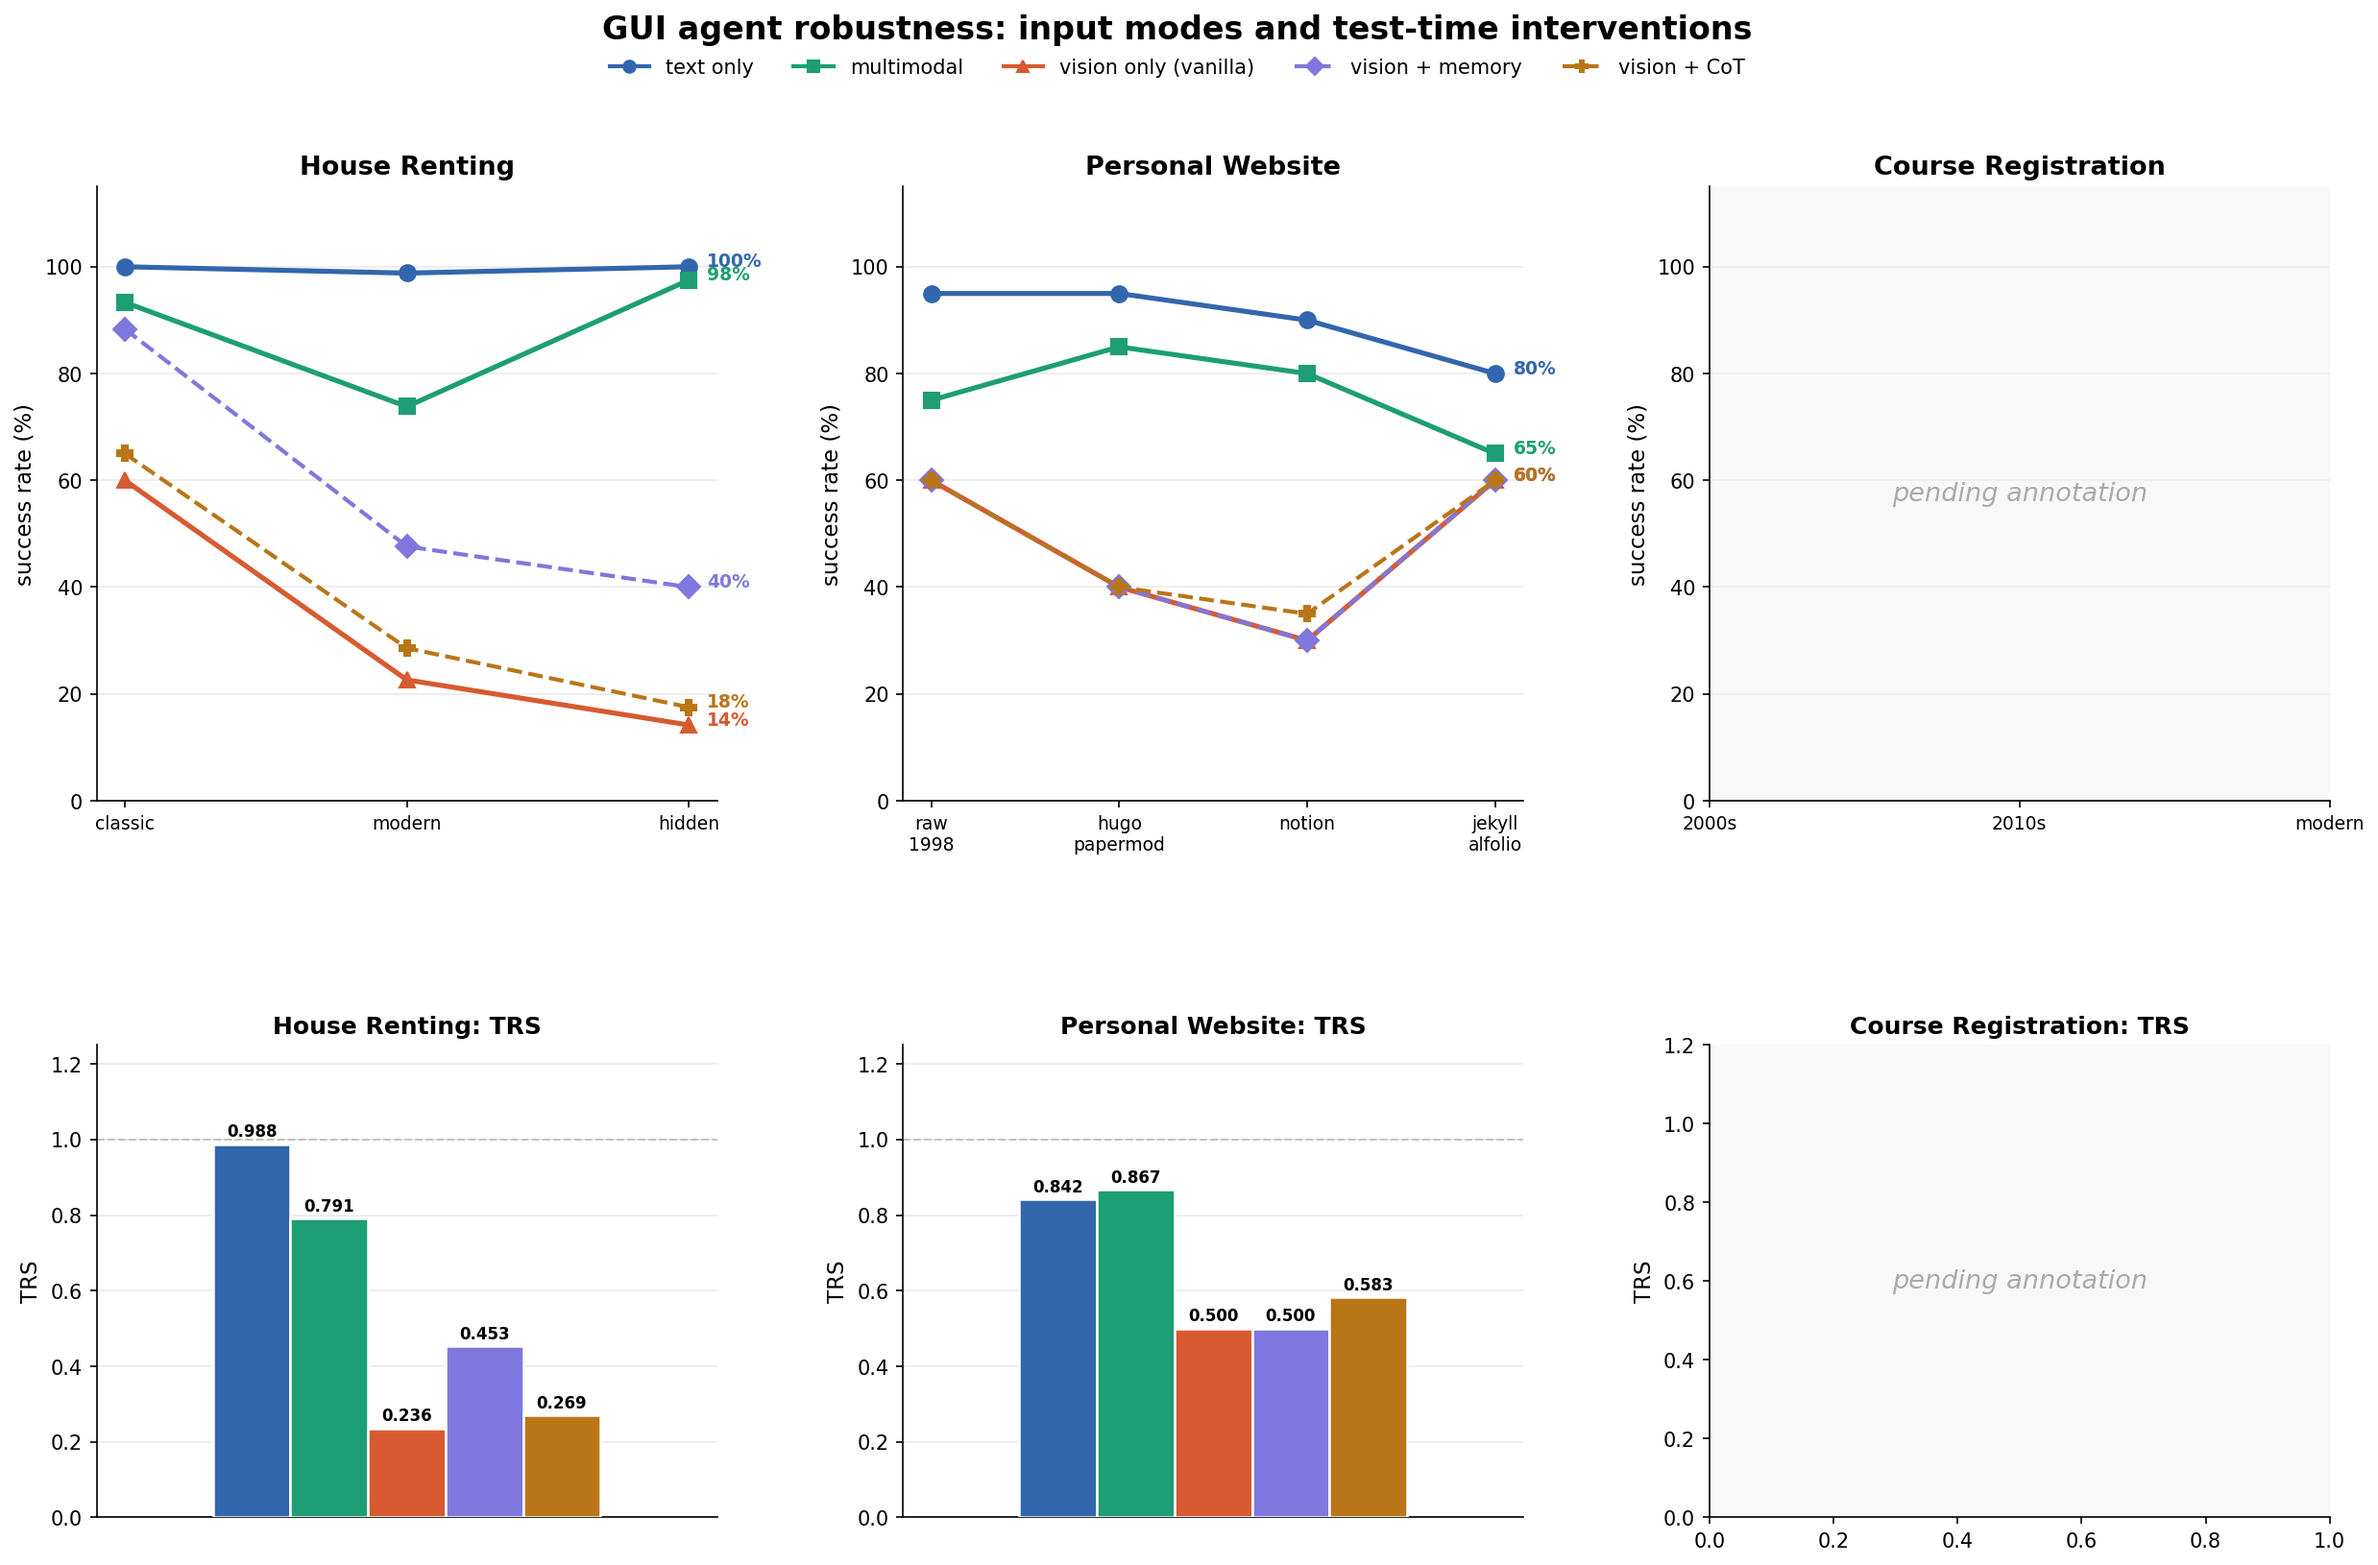
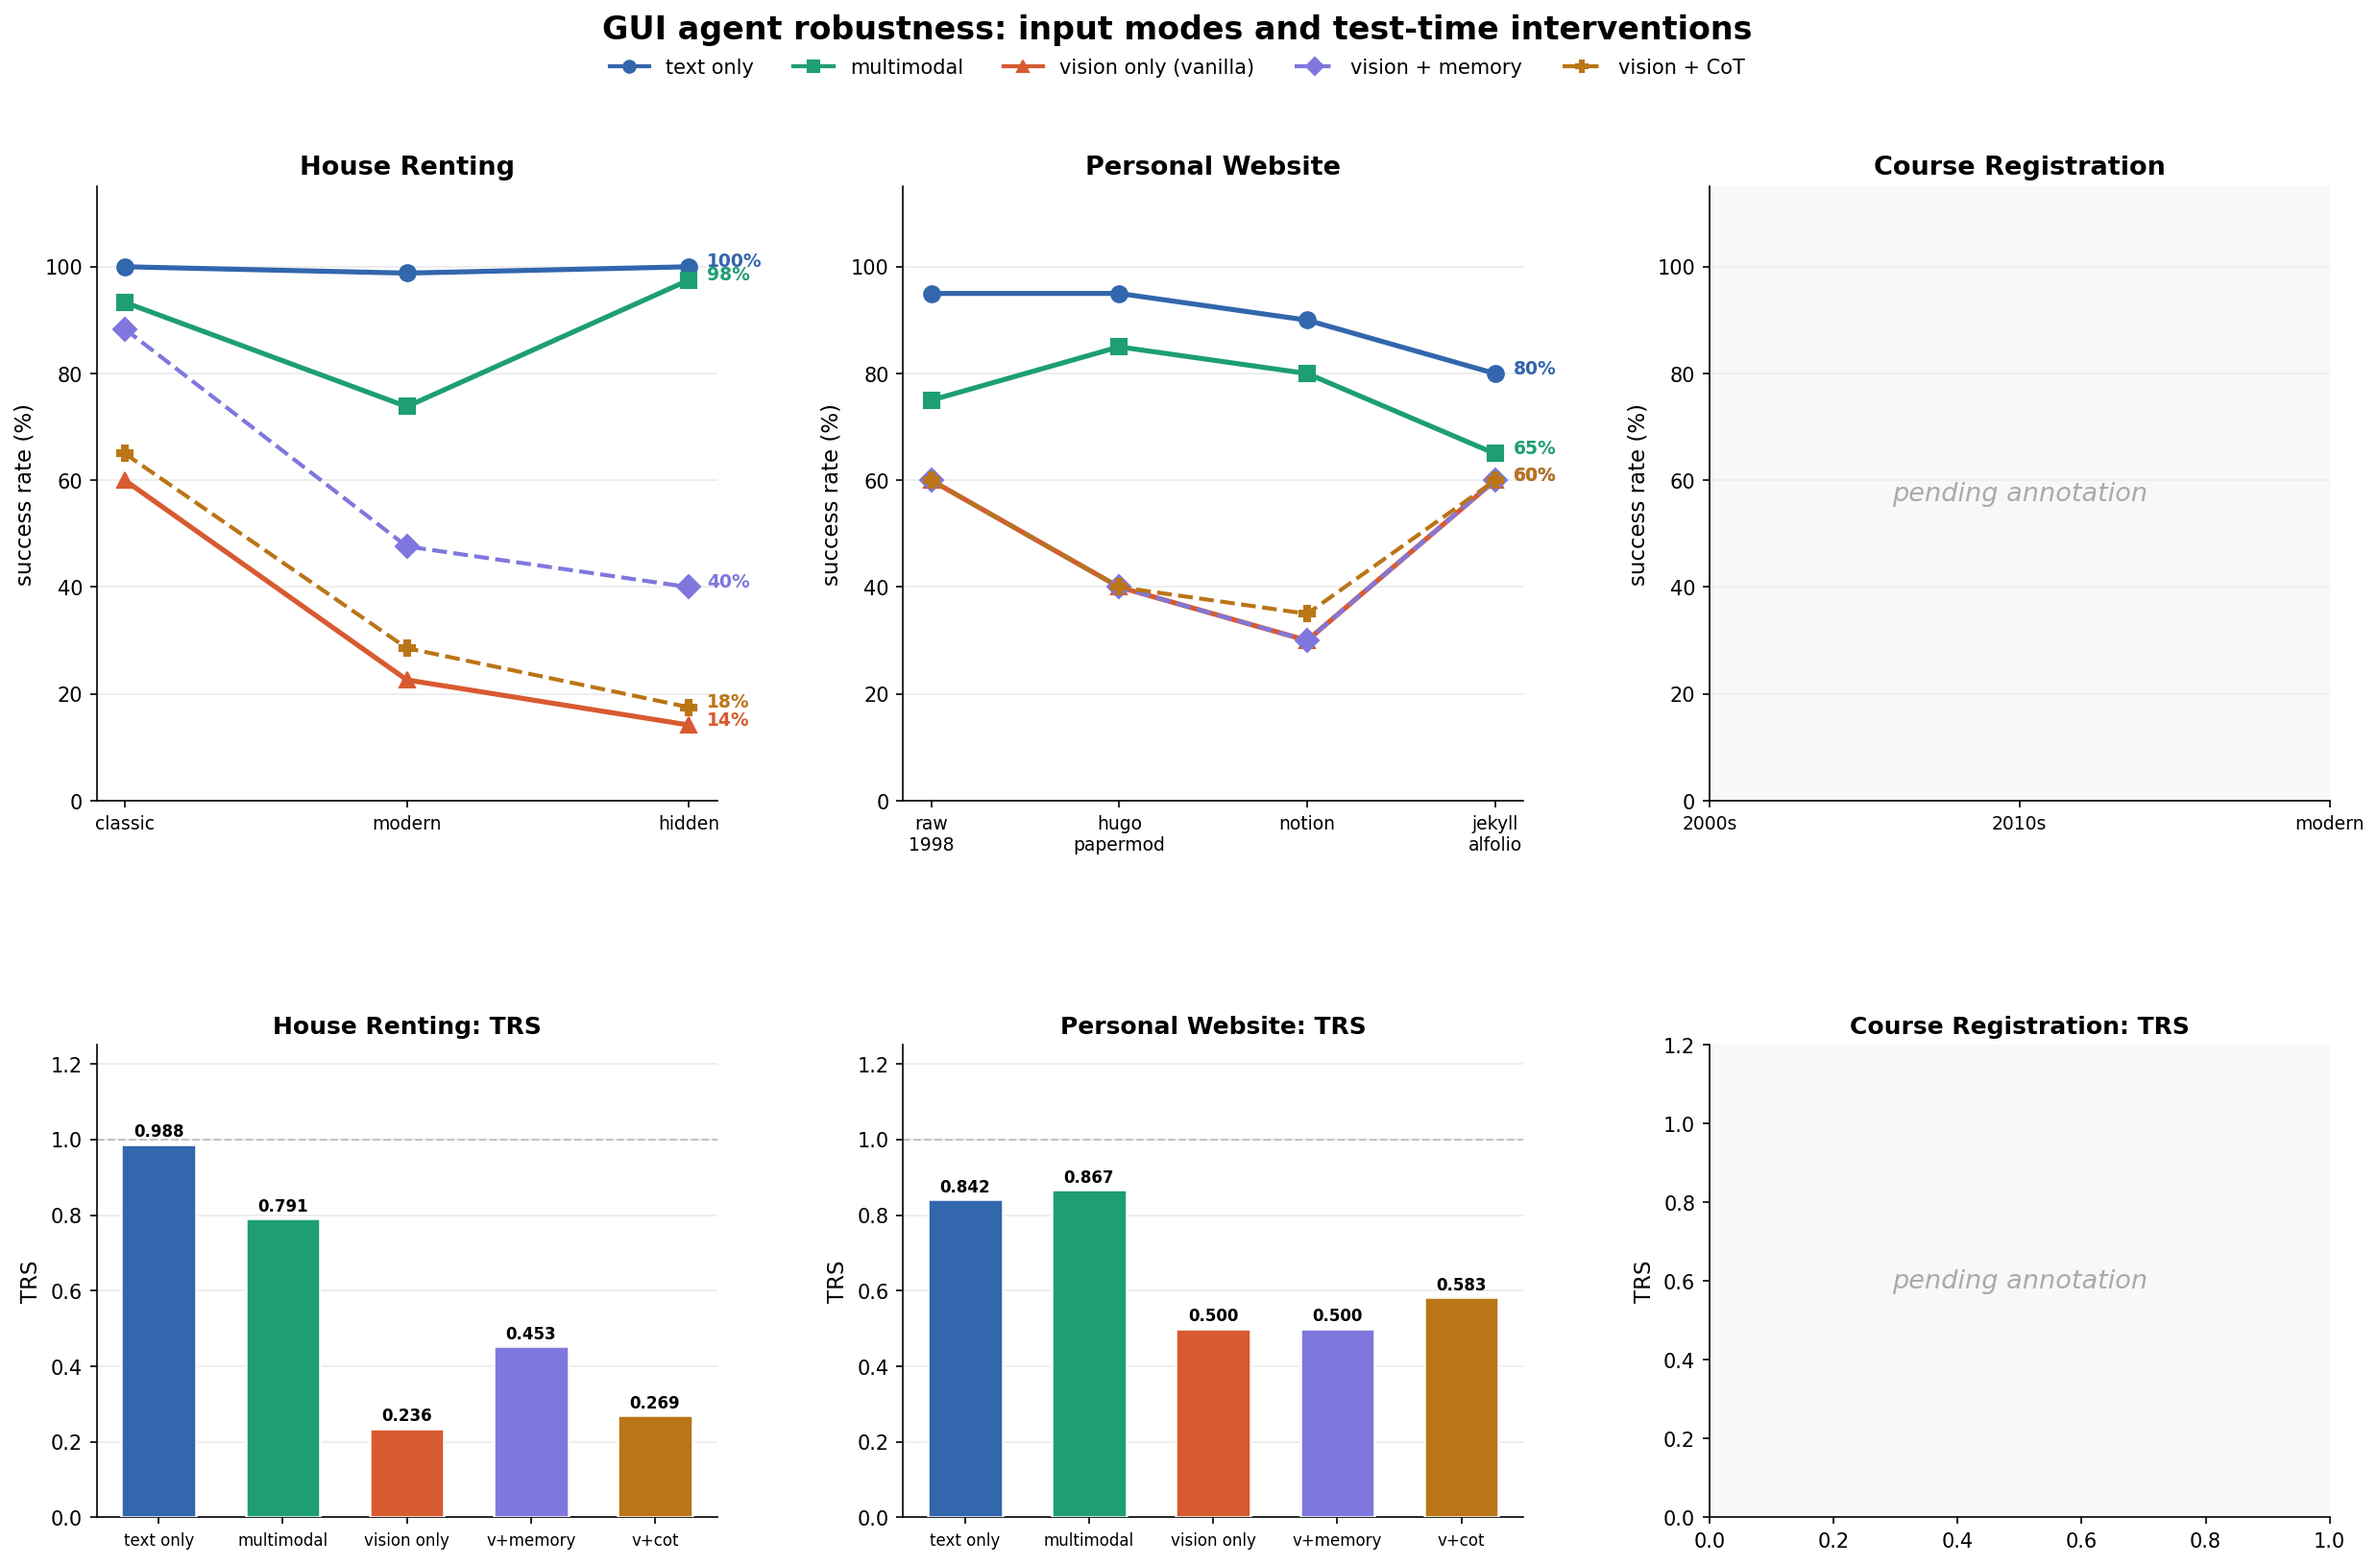
final results viz generate

diff --git a/eecs_545_final_project/scripts/visualize_agent_dashboard.py b/eecs_545_final_project/scripts/visualize_agent_dashboard.py
@@ -1,0 +1,175 @@
+# scripts/visualize_agent_dashboard.py
+# Comprehensive cross-agent dashboard for benchmark presentation.
+# Usage: python scripts/visualize_agent_dashboard.py
+
+import json
+import matplotlib.pyplot as plt
+import matplotlib.gridspec as gridspec
+import numpy as np
+from pathlib import Path
+
+VIZ_DIR = Path("results/visualizations")
+VIZ_DIR.mkdir(parents=True, exist_ok=True)
+
+# ============================================================
+# CONFIGURATION
+# ============================================================
+AGENTS = {
+    "gpt_oss":  {"label": "GPT-oss-120B",   "color": "#3266ad", "marker": "o", "ls": "-"},
+    "qwen_vl":  {"label": "Qwen3-VL-30B",   "color": "#d85a30", "marker": "^", "ls": "-"},
+    "uitars":   {"label": "UI-TARS-7B",      "color": "#7f77dd", "marker": "D", "ls": "-"},
+    "qwen25":   {"label": "Qwen2.5-VL-7B",  "color": "#1d9e75", "marker": "s", "ls": "-"},
+    "internvl": {"label": "InternVL2-8B",    "color": "#ba7517", "marker": "P", "ls": "-"},
+}
+
+VISION_AGENTS = ["qwen_vl", "uitars", "qwen25", "internvl"]
+
+WEBSITES = {
+    "house_renting": {
+        "title":     "House Renting",
+        "templates": ["classic", "modern", "hidden"],
+        "baseline":  "classic",
+        "xlabels":   ["classic", "modern", "hidden"],
+    },
+    "personal_website": {
+        "title":     "Personal Website",
+        "templates": ["raw_html_1998", "hugo_papermod", "notion", "jekyll_alfolio"],
+        "baseline":  "raw_html_1998",
+        "xlabels":   ["raw\n1998", "hugo\npapermod", "notion", "jekyll\nalfolio"],
+    },
+}
+
+def load_summary(website, mode, agent):
+    path = Path(f"results/metrics/{website}/{mode}/{agent}/summary.json")
+    if path.exists():
+        with open(path) as f:
+            return json.load(f)
+    path_old = Path(f"results/metrics/{website}/{mode}/summary.json")
+    if path_old.exists():
+        with open(path_old) as f:
+            return json.load(f)
+    return None
+
+
+# ============================================================
+# FIGURE: 2x2 dashboard
+# Row 1: vision_only line charts (house_renting, personal_website)
+# Row 2: TRS bar charts (vision_only, multimodal)
+# ============================================================
+fig = plt.figure(figsize=(18, 12))
+fig.suptitle(
+    "GUI Agent Temporal Robustness: Cross-Agent Comparison",
+    fontsize=16, fontweight="bold", y=1.01
+)
+
+gs = gridspec.GridSpec(2, 2, figure=fig, hspace=0.45, wspace=0.3)
+
+# ============================================================
+# ROW 1: Per-template success rate lines (vision_only)
+# ============================================================
+for col, (website_key, wconfig) in enumerate(WEBSITES.items()):
+    ax = fig.add_subplot(gs[0, col])
+    templates = wconfig["templates"]
+    xlabels   = wconfig["xlabels"]
+    x         = list(range(len(templates)))
+
+    for agent_key in VISION_AGENTS:
+        s = load_summary(website_key, "vision_only", agent_key)
+        if not s:
+            continue
+        cfg    = AGENTS[agent_key]
+        values = [s["success_rates"].get(t, 0) * 100 for t in templates]
+        ax.plot(
+            x, values,
+            color=cfg["color"], linestyle=cfg["ls"],
+            marker=cfg["marker"], linewidth=2.5, markersize=8,
+            label=cfg["label"], zorder=3
+        )
+        ax.annotate(
+            f"{values[-1]:.0f}%",
+            (len(templates) - 1, values[-1]),
+            textcoords="offset points", xytext=(8, 0),
+            fontsize=9, color=cfg["color"], fontweight="bold"
+        )
+
+    ax.set_xticks(x)
+    ax.set_xticklabels(xlabels, fontsize=10)
+    ax.set_ylim(0, 115)
+    ax.set_ylabel("success rate (%)", fontsize=11)
+    ax.set_title(
+        f"{wconfig['title']} — vision only",
+        fontsize=12, fontweight="bold"
+    )
+    ax.legend(fontsize=9, loc="upper right")
+    ax.grid(alpha=0.25, axis="y", zorder=0)
+    ax.spines["top"].set_visible(False)
+    ax.spines["right"].set_visible(False)
+
+# ============================================================
+# ROW 2: TRS bar charts
+# Left: vision_only TRS by agent and website
+# Right: multimodal TRS by agent and website
+# ============================================================
+modes_config = {
+    "vision_only": {"title": "TRS by Agent (vision only)",   "col": 0},
+    "multimodal":  {"title": "TRS by Agent (multimodal)",    "col": 1},
+}
+
+for mode, mconfig in modes_config.items():
+    ax = fig.add_subplot(gs[1, mconfig["col"]])
+
+    agents_to_show = VISION_AGENTS
+    n_agents       = len(agents_to_show)
+    n_websites     = len(WEBSITES)
+    width          = 0.35
+    x              = np.arange(n_agents)
+
+    website_keys   = list(WEBSITES.keys())
+    website_colors = ["#4a90d9", "#e07b39"]
+    website_labels = ["House Renting", "Personal Website"]
+
+    for wi, (website_key, wlabel, wcolor) in enumerate(
+            zip(website_keys, website_labels, website_colors)):
+        trs_vals = []
+        for agent_key in agents_to_show:
+            s = load_summary(website_key, mode, agent_key)
+            trs_vals.append(s["trs"] if s else 0)
+
+        offset = (wi - 0.5) * width
+        bars = ax.bar(
+            x + offset, trs_vals, width,
+            color=wcolor, alpha=0.85,
+            label=wlabel,
+            edgecolor="white", linewidth=1.2,
+            zorder=3
+        )
+        for bar, val in zip(bars, trs_vals):
+            if val > 0:
+                ax.text(
+                    bar.get_x() + bar.get_width() / 2,
+                    val + 0.01,
+                    f"{val:.3f}",
+                    ha="center", va="bottom",
+                    fontsize=8, fontweight="bold"
+                )
+
+    ax.axhline(y=1.0, color="gray", linestyle="--",
+               linewidth=1, alpha=0.4)
+    ax.set_xticks(x)
+    ax.set_xticklabels(
+        [AGENTS[a]["label"] for a in agents_to_show],
+        fontsize=9, rotation=15, ha="right"
+    )
+    ax.set_ylim(0, 1.25)
+    ax.set_ylabel("TRS", fontsize=11)
+    ax.set_title(mconfig["title"], fontsize=12, fontweight="bold")
+    ax.legend(fontsize=10, loc="upper right")
+    ax.grid(alpha=0.25, axis="y", zorder=0)
+    ax.spines["top"].set_visible(False)
+    ax.spines["right"].set_visible(False)
+
+plt.tight_layout()
+path = VIZ_DIR / "agent_comprehensive_dashboard.png"
+plt.savefig(path, dpi=150, bbox_inches="tight")
+plt.close()
+print(f"Saved: {path}")

diff --git a/eecs_545_final_project/scripts/visualize_comprehensive.py b/eecs_545_final_project/scripts/visualize_comprehensive.py
@@ -277,7 +277,7 @@ for col, (website_key, config) in enumerate(websites_list):
         ax.spines["right"].set_visible(False)
         continue
 
-n        = len(modes_order)
+    n        = len(modes_order)
     width    = 0.6
     x_pos    = np.arange(n)
     trs_vals = []
